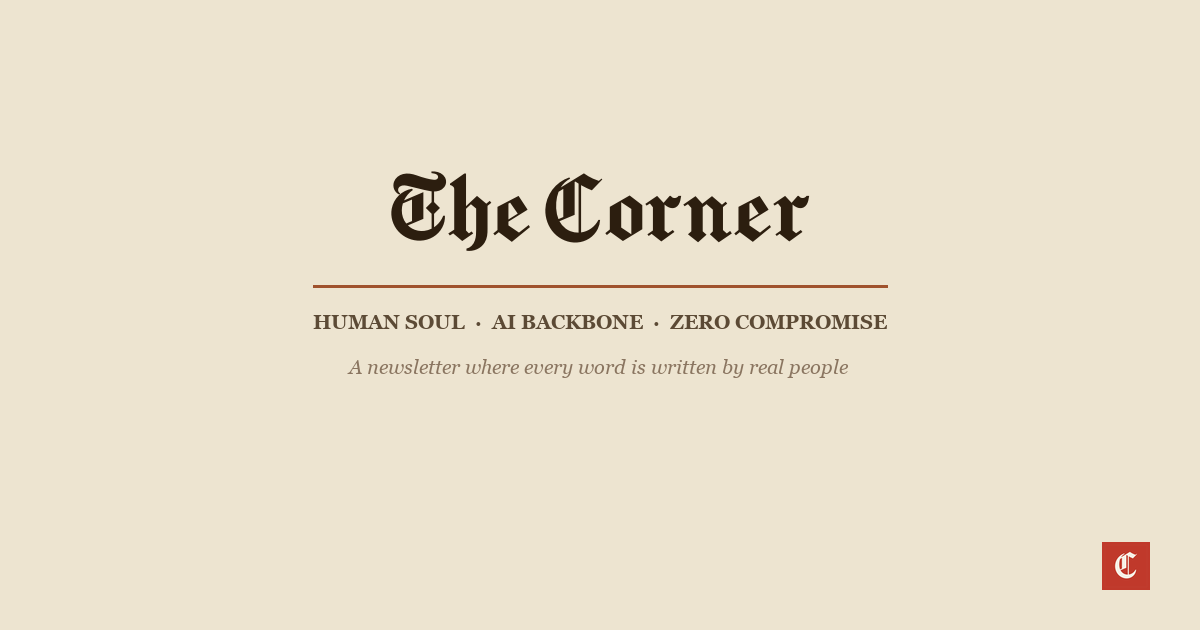
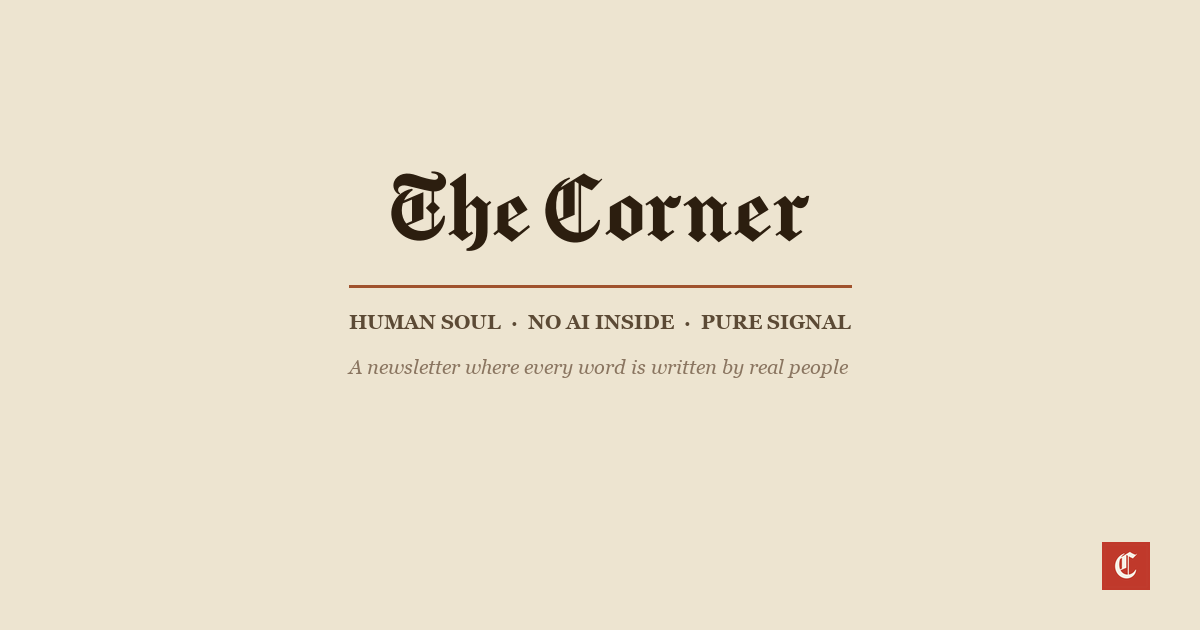
Update tagline: Human Soul · No AI Inside · Pure Signal

Changed region(s): [[0.2467, 0.4524, 0.74, 0.5429]]

diff --git a/src/app/page.tsx b/src/app/page.tsx
@@ -67,8 +67,8 @@ export default function Home() {
         <div className="masthead-title">
           <h1>The Corner</h1>
           <p className="tagline">
-            Human Soul &nbsp;&middot;&nbsp; AI Backbone &nbsp;&middot;&nbsp;
-            Zero Compromise
+            Human Soul &nbsp;&middot;&nbsp; No AI Inside &nbsp;&middot;&nbsp;
+            Pure Signal
           </p>
         </div>
         <div className="masthead-rule">
